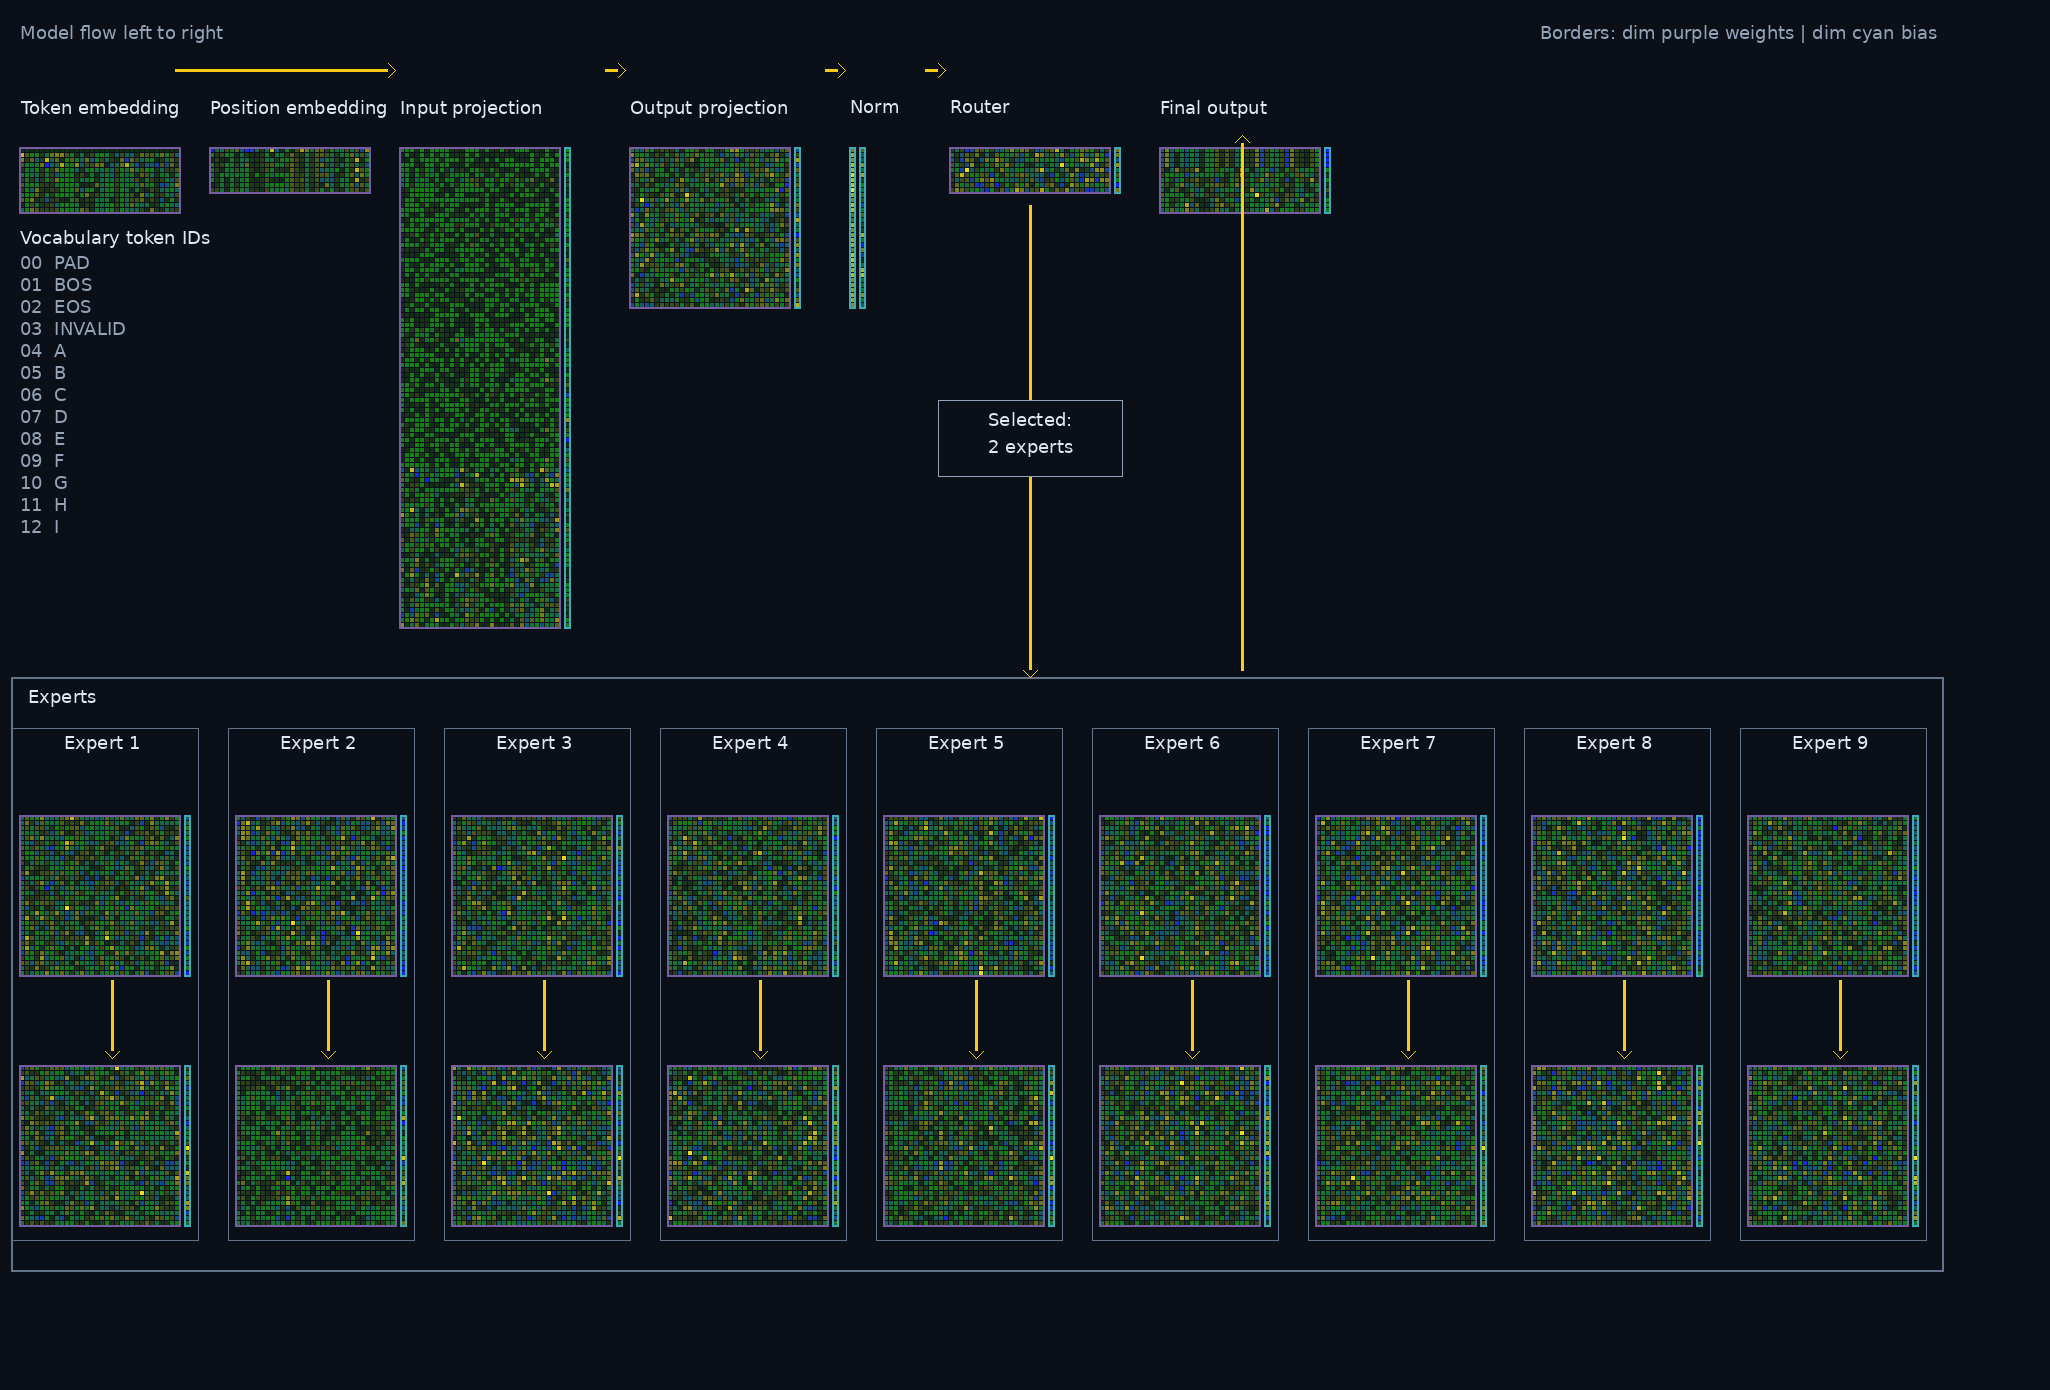
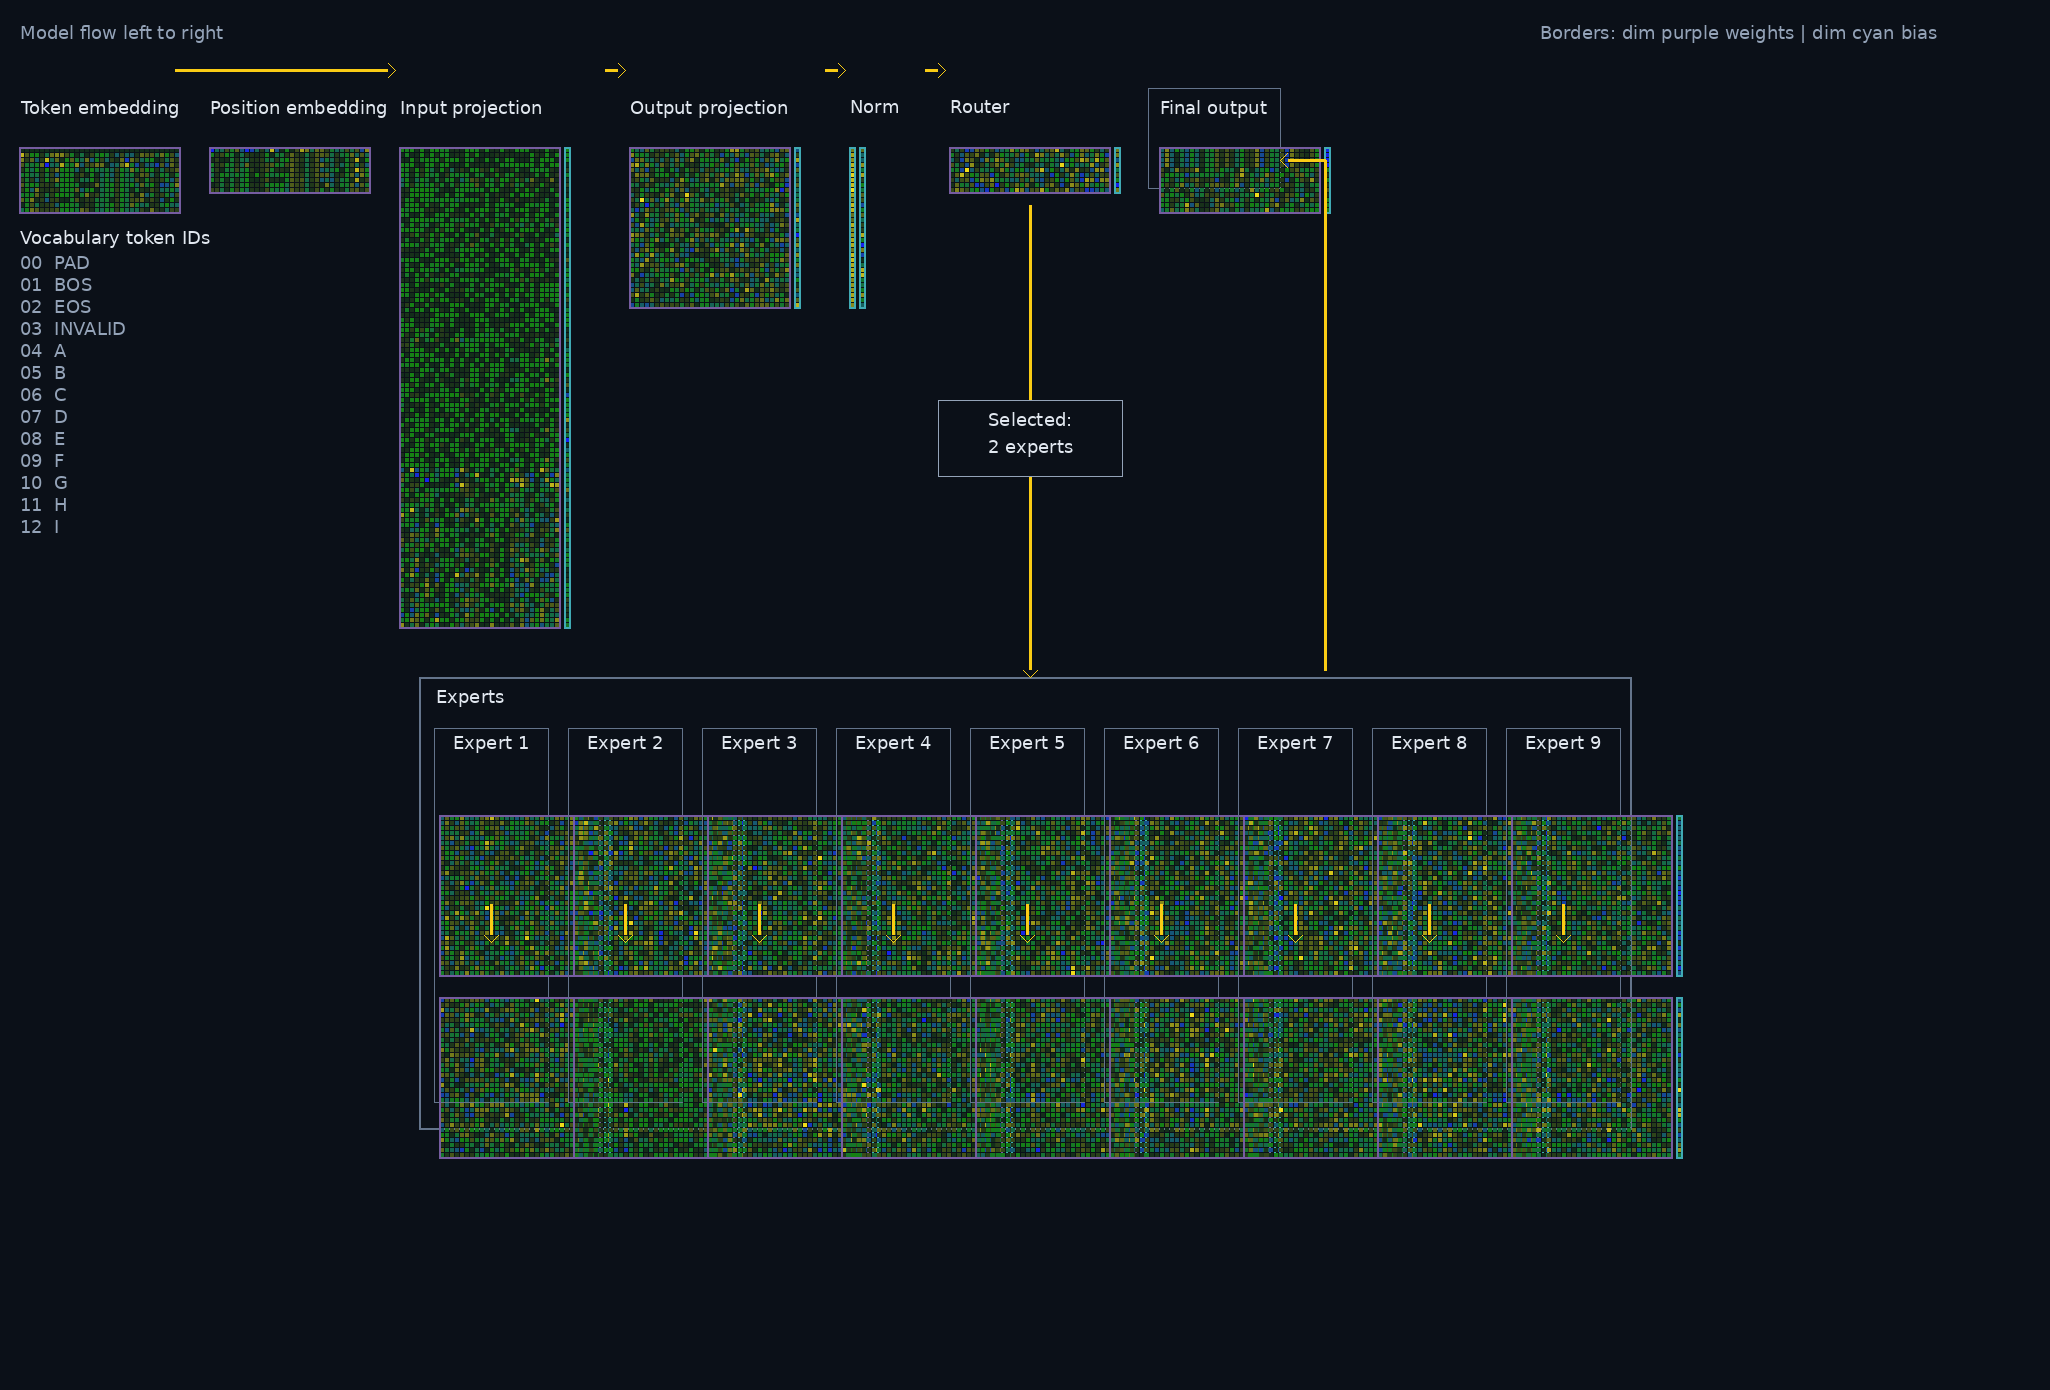
Compact Crystal-9 inspector expert layout

diff --git a/tools/tensor_inspector.py b/tools/tensor_inspector.py
@@ -189,6 +189,9 @@ def render_checkpoint_inspector(source: Path) -> tuple[bytes, dict[str, object]]
     _render_pair(rgb, width, state, "attention.out_proj.weight", "attention.out_proj.bias", "Output projection", 630, top_y)
     _render_pair(rgb, width, state, "norm.weight", "norm.bias", "Norm", 850, top_y)
     _render_pair(rgb, width, state, "router.weight", "router.bias", "Router", 950, top_y)
+    # The Final output outer boundary gives the return path a truthful destination without drawing through a tensor grid.
+    final_panel_left, final_panel_top, final_panel_right, final_panel_bottom = 1148, 88, 1280, 188
+    _rectangle(rgb, width, final_panel_left, final_panel_top, final_panel_right - final_panel_left, final_panel_bottom - final_panel_top, _EXPERT_BORDER, 1)
     _render_pair(rgb, width, state, "output.weight", "output.bias", "Final output", 1160, top_y)
     _render_vocabulary(rgb, width, 20, 230)
 
@@ -197,10 +200,11 @@ def render_checkpoint_inspector(source: Path) -> tuple[bytes, dict[str, object]]
     _arrow(rgb, width, 825, flow_y, 845, flow_y)
     _arrow(rgb, width, 925, flow_y, 945, flow_y)
 
-    expert_y, expert_gap, expert_width = 720, 16, 200
-    router_center, router_bus_y = 1030, expert_y - 34
-    expert_left, expert_right = 12, 1942
-    expert_top, expert_bottom = expert_y - 42, 1270
+    # Keep the nine repeated modules close enough to compare, while retaining a clear inter-layer arrow gutter.
+    expert_y, expert_gap, expert_width = 720, 20, 114
+    router_center = 1030
+    expert_left, expert_right = 420, 1630
+    expert_top, expert_bottom = expert_y - 42, 1128
     _rectangle(rgb, width, expert_left, expert_top, expert_right - expert_left, expert_bottom - expert_top, _EXPERT_BORDER)
     _text(rgb, width, expert_left + 16, expert_top + 12, "Experts", _LABEL)
     _arrow(rgb, width, router_center, 205, router_center, expert_top - 1)
@@ -210,21 +214,22 @@ def render_checkpoint_inspector(source: Path) -> tuple[bytes, dict[str, object]]
     _centered_text(rgb, width, router_center, 412, "Selected:", _LABEL)
     _centered_text(rgb, width, router_center, 440, "2 experts", _LABEL)
     for expert in range(9):
-        x = _MARGIN + expert * (expert_width + expert_gap)
-        box_top, box_bottom = expert_y + 8, expert_y + 520
-        _rectangle(rgb, width, x - 8, box_top, 186, box_bottom - box_top, _EXPERT_BORDER, 1)
-        _centered_text(rgb, width, x + 82, box_top + 8, f"Expert {expert + 1}", _LABEL)
+        x = 440 + expert * (expert_width + expert_gap)
+        box_top, box_bottom = expert_y + 8, expert_y + 382
+        _rectangle(rgb, width, x - 6, box_top, 114, box_bottom - box_top, _EXPERT_BORDER, 1)
+        _centered_text(rgb, width, x + 51, box_top + 8, f"Expert {expert + 1}", _LABEL)
         _render_pair(rgb, width, state, f"experts.{expert}.0.weight", f"experts.{expert}.0.bias", "", x, expert_y + 48)
-        _render_pair(rgb, width, state, f"experts.{expert}.2.weight", f"experts.{expert}.2.bias", "", x, expert_y + 298)
-        _arrow(rgb, width, x + 92, expert_y + 260, x + 92, expert_y + 338)
-    # The output panel shares the router's top-row alignment; this return arrow is parallel to router-to-experts.
-    output_center = 1242
-    _arrow(rgb, width, output_center, expert_top - 8, output_center, 135)
+        _render_pair(rgb, width, state, f"experts.{expert}.2.weight", f"experts.{expert}.2.bias", "", x, expert_y + 230)
+        _arrow(rgb, width, x + 51, expert_y + 184, x + 51, expert_y + 222)
+    # Return in a dedicated outer lane, then enter the Final output panel boundary rather than its matrix.
+    output_return_x, output_return_y = 1325, 160
+    _line(rgb, width, output_return_x, expert_top - 8, output_return_x, output_return_y)
+    _arrow(rgb, width, output_return_x, output_return_y, final_panel_right, output_return_y)
 
     metadata = {
-        "format": "crystal-9-tensor-inspector-v8", "source": source.name,
+        "format": "crystal-9-tensor-inspector-v9", "source": source.name,
         "source_sha256": hashlib.sha256(source.read_bytes()).hexdigest(), "tensor_count": len(state),
-        "normalization": "per-tensor symmetric max-absolute", "layout": "architecture-flow-v8",
+        "normalization": "per-tensor symmetric max-absolute", "layout": "architecture-flow-v9",
         "bias_alignment": "vertical output-row axis", "sections": ["inputs", "attention", "norm_router", "experts", "output"],
         "legend": {"WEIGHTS": "matrix; rows are output features", "BIAS": "bias column; one value per output row", "B": "bias column; one value per output row"},
         "expert_layout": "nine Expert boxes, each containing its first and second layer",
@@ -232,8 +237,8 @@ def render_checkpoint_inspector(source: Path) -> tuple[bytes, dict[str, object]]
         "vocabulary": _VOCABULARY, "font": "DejaVu Sans", "router_selection_label": "Selected: 2 experts",
         "router_selection_lines": ["Selected:", "2 experts"], "router_selection_shape": "gray outlined rectangle",
         "router_path": "continuous downward arrow touching the Experts outline",
-        "expert_return_path": "vertical upward arrow, parallel to router-to-experts, ending below Final output",
-        "intra_expert_arrows": "clear gap between first and second layer matrices",
+        "expert_return_path": "dedicated outer lane enters the Final output panel boundary",
+        "intra_expert_arrows": "compact clear gap between first and second layer matrices",
         "border_legend": {"dim purple": "weight matrix", "dim cyan": "bias vector"}, "experts_outline": "slate gray",
         "tensors": inventory, "width": width, "height": height,
     }

diff --git a/tests/test_tensor_inspector.py b/tests/test_tensor_inspector.py
@@ -15,7 +15,7 @@ def test_checkpoint_inspector_renders_actual_tensor_inventory_as_png():
     assert metadata["tensors"]["attention.in_proj_weight"]["shape"] == [96, 32]
     assert metadata["tensors"]["experts.0.0.weight"]["shape"] == [32, 32]
     assert metadata["normalization"] == "per-tensor symmetric max-absolute"
-    assert metadata["layout"] == "architecture-flow-v8"
+    assert metadata["layout"] == "architecture-flow-v9"
     assert metadata["bias_alignment"] == "vertical output-row axis"
     assert metadata["sections"][-2:] == ["experts", "output"]
     assert metadata["legend"]["B"] == "bias column; one value per output row"
@@ -27,7 +27,7 @@ def test_checkpoint_inspector_renders_actual_tensor_inventory_as_png():
     assert metadata["router_selection_lines"] == ["Selected:", "2 experts"]
     assert metadata["router_selection_shape"] == "gray outlined rectangle"
     assert metadata["router_path"] == "continuous downward arrow touching the Experts outline"
-    assert metadata["expert_return_path"] == "vertical upward arrow, parallel to router-to-experts, ending below Final output"
-    assert metadata["intra_expert_arrows"] == "clear gap between first and second layer matrices"
+    assert metadata["expert_return_path"] == "dedicated outer lane enters the Final output panel boundary"
+    assert metadata["intra_expert_arrows"] == "compact clear gap between first and second layer matrices"
     assert metadata["border_legend"] == {"dim purple": "weight matrix", "dim cyan": "bias vector"}
     assert metadata["experts_outline"] == "slate gray"

diff --git a/tools/export_tensor_inspectors.py b/tools/export_tensor_inspectors.py
@@ -31,7 +31,7 @@ def main() -> None:
             "tensor_count": metadata["tensor_count"], "width": metadata["width"], "height": metadata["height"],
             "normalization": metadata["normalization"], "derived": True,
         })
-    (OUTPUT.parent / "inspectors.json").write_text(json.dumps({"format": "crystal-9-tensor-inspector-v8", "inspectors": inspectors}, indent=2) + "\n")
+    (OUTPUT.parent / "inspectors.json").write_text(json.dumps({"format": "crystal-9-tensor-inspector-v9", "inspectors": inspectors}, indent=2) + "\n")
 
 
 if __name__ == "__main__":
